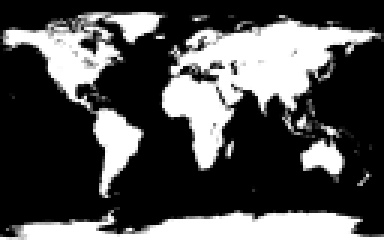
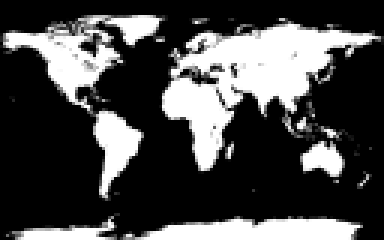
Implemented a more precise custom LEGO projection

diff --git a/lego_art_map_generator/render_land_grayscale.py b/lego_art_map_generator/render_land_grayscale.py
@@ -1,15 +1,12 @@
 from pathlib import Path
-from typing import List
+from typing import List, Tuple
 
 import cairocffi
 import click
-import pyproj
 import shapefile
 from map_engraver.canvas import CanvasBuilder
 
 from map_engraver.canvas.canvas_unit import CanvasUnit
-from map_engraver.data import geo_canvas_ops
-from map_engraver.data.geo.geo_coordinate import GeoCoordinate
 from map_engraver.drawable.geometry.polygon_drawer import PolygonDrawer
 from map_engraver.drawable.layout.background import Background
 from shapely import ops
@@ -29,13 +26,6 @@ from shapely.geometry.base import BaseGeometry
     help='Disables anti-aliasing when rendering the image.'
 )
 def render(dst: str, aliased: bool):
-    # Map projection configurations:
-    # Stretch the world map height
-    y_scale = 1.25
-    # Shift the world map in pixels
-    x_offset = CanvasUnit.from_px(-4)
-    y_offset = CanvasUnit.from_px(1)
-
     # Specify the files to load, and where to save
     data_path = Path(__file__).parent.parent.joinpath('data')
     land_shape_path = data_path.joinpath('ne_110m_land.shp')
@@ -65,20 +55,59 @@ def render(dst: str, aliased: bool):
     land_shapes = parse_shapefile(land_shape_path)
     lake_shapes = parse_shapefile(lake_shape_path)
 
-    wgs84_crs = pyproj.CRS.from_epsg(4326)
-    geo_canvas_scale = geo_canvas_ops.GeoCanvasScale(360, canvas_width)
-    origin_for_geo = GeoCoordinate(-180, 90, wgs84_crs)
-    wgs84_canvas_transformer_raw = geo_canvas_ops.build_transformer(
-        crs=wgs84_crs,
-        scale=geo_canvas_scale,
-        origin_for_geo=origin_for_geo
-    )
+    def lego_projection_transformer(
+            longitude: float,
+            latitude: float
+    ) -> Tuple[float, float]:
+        """
+        The Lego projection stretches the map vertically in a non-linear way,
+        and also applies a horizontal offset.
+        """
+        x_percentage = (longitude + 180) / 360
+        x_offset = CanvasUnit.from_px(-4)
+        x_canvas = x_percentage * canvas_width.pt + x_offset.pt
 
-    def wgs84_canvas_transformer(x, y):
-        coord = wgs84_canvas_transformer_raw(x, y)
-        return (coord[0] + x_offset.pt), (coord[1] + y_offset.pt) * y_scale
+        # The latitude mappings below assume that the canvas height is 80px.
+        if latitude < -83:
+            min_latitude_range = -90
+            max_latitude_range = -83
+            # Add 1 to ensure the transformed polygon doesn't self-intersect.
+            min_y_range = CanvasUnit.from_px(80 + 1).pt
+            max_y_range = CanvasUnit.from_px(80).pt
+        elif latitude < -60:
+            min_latitude_range = -83
+            max_latitude_range = -60
+            min_y_range = CanvasUnit.from_px(80).pt
+            max_y_range = CanvasUnit.from_px(70).pt
+        elif latitude < -57:
+            min_latitude_range = -60
+            max_latitude_range = -57
+            min_y_range = CanvasUnit.from_px(70).pt
+            max_y_range = CanvasUnit.from_px(67).pt
+        elif latitude < 86:
+            min_latitude_range = -57
+            max_latitude_range = 86
+            min_y_range = CanvasUnit.from_px(67).pt
+            max_y_range = CanvasUnit.from_px(4).pt
+        elif latitude < 86:
+            min_latitude_range = 86
+            max_latitude_range = 86
+            min_y_range = CanvasUnit.from_px(4).pt
+            max_y_range = CanvasUnit.from_px(4).pt
+        else:
+            min_latitude_range = 86
+            max_latitude_range = 90
+            min_y_range = CanvasUnit.from_px(4).pt
+            max_y_range = CanvasUnit.from_px(0).pt
 
-    def anti_meridian_transformer(x, y):
+        y_percentage = (latitude - min_latitude_range) / \
+                       (max_latitude_range - min_latitude_range)
+        y_canvas = y_percentage * (max_y_range - min_y_range) + min_y_range
+        return x_canvas, y_canvas
+
+    def anti_meridian_transformer(x: float, y: float) -> Tuple[float, float]:
+        # See `lego_projection_transformer()`
+        x_offset = CanvasUnit.from_px(-4)
         if x_offset.pt > 0:
             return (x - canvas_width.pt), y
         else:
@@ -86,7 +115,7 @@ def render(dst: str, aliased: bool):
 
     # Transform array of polygons to canvas:
     def transform_geom_to_canvas(geom: BaseGeometry):
-        return ops.transform(wgs84_canvas_transformer, geom)
+        return ops.transform(lego_projection_transformer, geom)
 
     def transform_anti_meridian(geom: BaseGeometry):
         return ops.transform(anti_meridian_transformer, geom)
